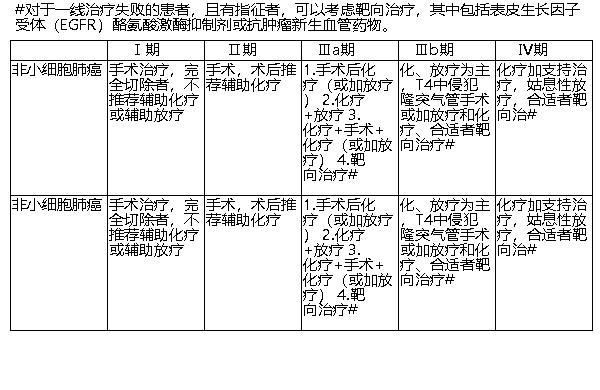
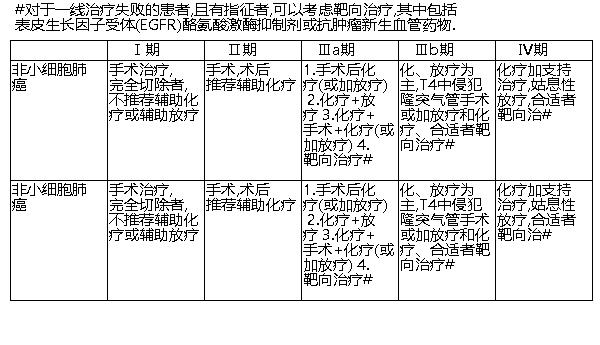
提交告辞

Changed region(s): [[0.0, 0.0, 0.99, 0.8696]]

diff --git a/Backendadmin/src/main/java/cn/knowimage/controller/PathwayInfoController.java b/Backendadmin/src/main/java/cn/knowimage/controller/PathwayInfoController.java
@@ -45,7 +45,8 @@ public class PathwayInfoController {
     public String insertPathwayInfo(String pathwayPojo) {
         System.out.println("|-----------开始进行添加或更新操作---------");
         //测试数据     避免前端多次测试
-        //pathwayPojo="{\"selectId\":\"012011078901\",\"publisher\":\"01\",\"publishYear\":\"2011\",\"fileNumber\":\"789\",\"versionNumber\":\"01\",\"pathway_name\":\"彭雷测试表格数据\",\"first_diagnose\":\"ICD–10：C34/D02.2\",\"suitable_subject_disc\":\"第一诊断为原发性支气管肺癌（ICD–10：C34/D02.2）\\n行肺局部切除/肺叶切除/全肺切除/开胸探查术(ICD-10-CM-3:32.29/32.3–32.5)。\",\"diagnosis\":\"根据《临床诊疗指南－呼吸病学分册》（中华医学会编著，人民卫生出版社），《2009年NCCN非小细胞肺癌临床实践指南（中国版）》（NCCN指南中国版专家组），《2009年NCCN小细胞肺癌临床实践指南》（NCCN小细胞肺癌专家组）。\\n1.临床表现：咳嗽、痰血、咯血、呼吸困难、Horner’s征、上腔静脉压迫综合征、远处转移引起的症状以及肺外非特异性表现（副癌综合征）等。\\n2.辅助检查：（1）胸部影像学检查；（2）病理学检查：痰脱落细胞学检查、纤维支气管镜活检、肺穿刺活检等确诊。\\n3.评价肿瘤转移情况的相关检查：腹部CT或超声、肾上腺CT、头颅MRI或增强CT、ECT全身骨扫描、PET–CT等。\\n4.根据上述检查结果进行临床分期。\",\"treatment_choice_ref\":\"《临床诊疗指南－呼吸病学分册》（中华医学会编著，人民卫生出版社），《2009年NCCN非小细胞肺癌临床实践指南（中国版）》（NCCN指南中国版专家组），《2009年NCCN小细胞肺癌临床实践指南》（NCCN小细胞肺癌专家组）。\",\"treatment_choice_scenario\":\"[{\\\"treatmentChoiceId\\\":[{\\\"value\\\":\\\"非小细胞肺癌治疗原则 @GRID@_1\\\"},{\\\"value\\\":\\\"晚期非小细胞肺癌治疗原则。 推荐以化疗为主，放疗和手术治疗为辅的综合治疗以延长患者生存期。化疗有效者可化疗4–6个周期。治疗后进展的患者可改二线治疗\\\"},{\\\"value\\\":\\\"小细胞肺癌治疗原则。 临床分期为Ⅰ期的小细胞肺癌，推荐肺叶切除+纵隔淋巴结清扫术，术后仍为pN0，推荐4–6周期的EP方案化疗；如为pN+，推荐全身化疗同时加纵隔野的放射治疗。不适于手术的I期小细胞肺癌，推荐同期化放疗的治疗。 Ⅱ和Ⅲ期小细胞肺癌，如果PS≤2，推荐同期化放疗的治疗；如果由于合并症而致PS＞2，首选化疗，必要时加上放射治疗。 Ⅳ期小细胞肺癌，首选治疗模式为全身化疗，EP方案为标准治疗方案；伊立替康+顺铂方案也是可选择的方案\\\"}]}]\",\"treatment_days\":\"[{\\\"tag_name\\\":\\\"\\\",\\\"text\\\":\\\"\\\",\\\"time_unit\\\":\\\"周\\\",\\\"min\\\":1.1428571428571428,\\\"max\\\":2}]\",\"treatment_entry_standard\":\"[{\\\"value\\\":\\\"第一诊断必须符合ICD–10：C34/D02.2原发性支气管肺癌疾病编码\\\"},{\\\"value\\\":\\\"有手术治疗指征需外科治疗者，转入外科治疗路径\\\"},{\\\"value\\\":\\\"如患者一般情况较差，KPS评分＜60（或ZPS评分＞2），不进入该临床路径\\\"},{\\\"value\\\":\\\"有明显影响原发性支气管肺癌常规治疗的情况，不进入该临床路径\\\"},{\\\"value\\\":\\\"当患者同时具有其他疾病诊断，但在住院期间不需要特殊处理也不影响第一诊断的临床路径流程实施时，可以进入路径\\\"}]\",\"prep_treatment_common\":\"化疗\",\"prep_treatmentCommon\":\"[{\\\"text\\\":\\\"\\\",\\\"time_unit\\\":\\\"\\\",\\\"min\\\":\\\"0\\\",\\\"max\\\":\\\"0\\\",\\\"obligatory_exam\\\":[{\\\"value\\\":\\\"血常规、尿常规、大便常规\\\"},{\\\"value\\\":\\\"凝血功能、血型、肝肾功能、电解质、感染性疾病筛查（乙肝、丙肝、艾滋病、梅毒等）、肿瘤标志物检查\\\"},{\\\"value\\\":\\\"肺功能、动脉血气分析、心电图、超声心动图\\\"},{\\\"value\\\":\\\"影像学检查：胸片正侧位、胸部CT（平扫＋增强扫描）、腹部超声或CT、ECT全身骨扫描、头颅MRI或CT\\\"}],\\\"optional_exam\\\":[{\\\"value\\\":\\\"纤维支气管镜检查及相应的镜下治疗\\\"},{\\\"value\\\":\\\"全身PET–CT\\\"}],\\\"notification\\\":[{\\\"value\\\":\\\"\\\"}],\\\"item_field_name1\\\":\\\"\\\"}]\",\"radio\":\"0\",\"prep_treatmentAntibio_usage\":\"[{\\\"value\\\":\\\"\\\"}]\",\"prep_treatmentAnaesthetic_usage\":\"[{\\\"value\\\":\\\"\\\"}]\",\"prep_treatmentOtherdrugs_usage\":\"[{\\\"value\\\":\\\"\\\"}]\",\"prep_treatment_extension\":\"[{\\\"content_item\\\":[{\\\"value\\\":\\\"\\\"}],\\\"content\\\":\\\"\\\"}]\",\"treatment_days_duration\":\"\",\"duration_treatment_min\":\"0\",\"duration_treatment_max\":\"0\",\"duration_treatment_text\":\"\",\"sceneList\":\"[{\\\"treatmentPlanRef\\\":\\\"\\\",\\\"caseChildnum\\\":[{\\\"treatmentPlanContent\\\":\\\"化疗方案\\\",\\\"planContentItem\\\":[{\\\"value\\\":\\\"非小细胞肺癌。 1）GP方案： 吉西他滨1000–1250mg/m2静脉滴注第１、８天，顺铂75mg/m2或卡铂AUC=5静脉滴注第1天，21日为一周期。 2）DP方案： 多西他赛75mg/m²静脉滴注第1天，顺铂75mg/m²或卡铂AUC=5静脉滴注第1天，21日为一周期。 3）NP方案： 长春瑞滨25mg/m²静推10分钟第1、8天，顺铂       80mg/m²静滴第1天，21日为一周期。 4）TP方案： 紫杉醇175mg/m²静滴3小时第1天，顺铂75mg/m²或卡铂AUC=5静滴第1天，21日为一周期。 5）PP方案（非鳞癌）： 培美曲塞500mg/m²静滴第1天，顺铂75mg/m²或卡铂  AUC=5静滴第1天，21日为一周期。 非小细胞肺癌二线化疗可选药物包括多西他赛与培美曲塞：多西他赛75mg/m²静滴第1天，21日为一周期；或培美曲塞500mg/m²静滴第1天，21日为一周期\\\"},{\\\"value\\\":\\\"小细胞肺癌 1）EP方案： 顺铂80mg/m²静滴第1天，依托泊苷100mg/m²静滴第1-3天，21天为一周期。 2）IP方案： 伊立替康60mg/m²静滴第1、8、15天，顺铂60mg/m²静滴第1天，28日为一周期。 3）CAV方案： 环磷酰胺1000mg/m²静推或静滴第1天，多柔比星40–50mg/m²（或表柔比星60mg/m²）静推第1天，长春新碱1mg/m²静推第1天，21–28日为一周期。 小细胞肺癌的二线治疗：一线化疗后3个月内进展，二线化疗可选药物有托泊替康、异环磷酰胺、紫杉醇、多西他赛、吉西他滨；一线化疗后3个月后进展，二线化疗首选托泊替康单药或联合用药；6个月后进展，选用初始治疗有效的方案\\\"}]},{\\\"treatmentPlanContent\\\":\\\"靶向治疗\\\",\\\"planContentItem\\\":[{\\\"value\\\":\\\"非小细胞肺癌二线或三线治疗可选用吉非替尼或厄洛替尼。根据现有证据，推荐在有EGFR基因突变的晚期非小细胞肺癌中一线使用吉非替尼或厄洛替尼。目前用于非小细胞肺癌的靶向治疗还包括抗血管生成的贝伐单抗、西妥昔单抗等\\\"}]},{\\\"treatmentPlanContent\\\":\\\"抗肿瘤药物毒副反应的防治\\\",\\\"planContentItem\\\":[{\\\"value\\\":\\\"包括骨髓抑制、消化道反应、脏器损害、过敏反应、肾毒性及局部皮肤刺激的预防和处理\\\"}]},{\\\"treatmentPlanContent\\\":\\\"并发症及转移灶的综合治疗\\\",\\\"planContentItem\\\":[{\\\"value\\\":\\\"\\\"}]}],\\\"obligatoryExam\\\":[{\\\"value\\\":\\\"\\\"}],\\\"optionalExam\\\":[{\\\"value\\\":\\\"\\\"}],\\\"notification\\\":[{\\\"value\\\":\\\"\\\"}],\\\"item_field_name2\\\":\\\"\\\"}]\",\"drug_usageAntibio_usage\":\"[{\\\"value\\\":\\\"\\\"}]\",\"drug_usageAnaesthetic_usage\":\"[{\\\"value\\\":\\\"\\\"}]\",\"drug_usageOtherdrugs_usage\":\"[{\\\"value\\\":\\\"\\\"}]\",\"afterDuration\":\"\",\"afterDuration_treatment_min\":\"0\",\"afterDuration_treatment_max\":\"0\",\"afterDuration_treatment_text\":\"\",\"after_medicalScenario\":\"[{\\\"obligatory_exam\\\":[{\\\"value\\\":\\\"\\\"}],\\\"optional_exam\\\":[{\\\"value\\\":\\\"\\\"}],\\\"recovery_plan\\\":[{\\\"value\\\":\\\"\\\"}]}]\",\"after_treatmentAntibio_usage\":\"[{\\\"value\\\":\\\"\\\"}]\",\"after_treatmentAnaesthetic_usage\":\"[{\\\"value\\\":\\\"\\\"}]\",\"after_treatmentOtherdrugs_usage\":\"[{\\\"value\\\":\\\"\\\"}]\",\"discharge_criteria\":\"[{\\\"value\\\":\\\"生命体征平稳\\\"},{\\\"value\\\":\\\"没有需要继续住院处理的并发症\\\"}]\",\"other_notice\":\"[{\\\"value\\\":\\\"有影响肺癌治疗的合并症，需要进行相关的诊断和治疗\\\"},{\\\"value\\\":\\\"治疗过程中出现并发症和/或抗肿瘤药物严重毒副反应\\\"}]\",\"submitter\":\"李俊峰\",\"indefinite_field\":\"[{\\\"field_pos\\\":3,\\\"field_name\\\":\\\"\\\",\\\"field_content\\\":[{\\\"value\\\":\\\"\\\"}]}]\",\"submitterid\":\"51\",\"commit\":\"0\",\"table_info\":\"[{\\\"table_name\\\":\\\"@GRID@_1\\\",\\\"row_count\\\":3,\\\"table_pos\\\":0,\\\"column_count\\\":6,\\\"top_title\\\":\\\"\\\",\\\"below_description\\\":\\\"#对于一线治疗失败的患者，且有指征者，可以考虑靶向治疗，其中包括表皮生长因子受体（EGFR）酪氨酸激酶抑制剂或抗肿瘤新生血管药物。\\\",\\\"content\\\":[[{\\\"value\\\":\\\"\\\"},{\\\"value\\\":\\\"Ⅰ期\\\"},{\\\"value\\\":\\\"Ⅱ期\\\"},{\\\"value\\\":\\\"Ⅲa期\\\"},{\\\"value\\\":\\\"Ⅲb期\\\"},{\\\"value\\\":\\\"Ⅳ期\\\"}],[{\\\"value\\\":\\\"非小细胞肺癌\\\"},{\\\"value\\\":\\\"手术治疗，完全切除者，不推荐辅助化疗或辅助放疗\\\"},{\\\"value\\\":\\\"手术，术后推荐辅助化疗\\\"},{\\\"value\\\":\\\"1.手术后化疗（或加放疗） 2.化疗+放疗 3.化疗+手术+化疗（或加放疗） 4.靶向治疗#\\\"},{\\\"value\\\":\\\"化、放疗为主，T4中侵犯隆突气管手术或加放疗和化疗、合适者靶向治疗#\\\"},{\\\"value\\\":\\\"化疗加支持治疗，姑息性放疗，合适者靶向治#\\\"}],[{\\\"value\\\":\\\"非小细胞肺癌\\\"},{\\\"value\\\":\\\"手术治疗，完全切除者，不推荐辅助化疗或辅助放疗\\\"},{\\\"value\\\":\\\"手术，术后推荐辅助化疗\\\"},{\\\"value\\\":\\\"1.手术后化疗（或加放疗） 2.化疗+放疗 3.化疗+手术+化疗（或加放疗） 4.靶向治疗#\\\"},{\\\"value\\\":\\\"化、放疗为主，T4中侵犯隆突气管手术或加放疗和化疗、合适者靶向治疗#\\\"},{\\\"value\\\":\\\"化疗加支持治疗，姑息性放疗，合适者靶向治#\\\"}]]}]\",\"fileStatic\":0}";
+        pathwayPojo="{\"selectId\":\"012011078901\",\"publisher\":\"01\",\"publishYear\":\"2011\",\"fileNumber\":\"789\",\"versionNumber\":\"01\",\"pathway_name\":\"彭雷测试表格数据\",\"first_diagnose\":\"ICD–10：C34/D02.2\",\"suitable_subject_disc\":\"第一诊断为原发性支气管肺癌（ICD–10：C34/D02.2）\\n行肺局部切除/肺叶切除/全肺切除/开胸探查术(ICD-10-CM-3:32.29/32.3–32.5)。\",\"diagnosis\":\"根据《临床诊疗指南－呼吸病学分册》（中华医学会编著，人民卫生出版社），《2009年NCCN非小细胞肺癌临床实践指南（中国版）》（NCCN指南中国版专家组），《2009年NCCN小细胞肺癌临床实践指南》（NCCN小细胞肺癌专家组）。\\n1.临床表现：咳嗽、痰血、咯血、呼吸困难、Horner’s征、上腔静脉压迫综合征、远处转移引起的症状以及肺外非特异性表现（副癌综合征）等。\\n2.辅助检查：（1）胸部影像学检查；（2）病理学检查：痰脱落细胞学检查、纤维支气管镜活检、肺穿刺活检等确诊。\\n3.评价肿瘤转移情况的相关检查：腹部CT或超声、肾上腺CT、头颅MRI或增强CT、ECT全身骨扫描、PET–CT等。\\n4.根据上述检查结果进行临床分期。\",\"treatment_choice_ref\":\"《临床诊疗指南－呼吸病学分册》（中华医学会编著，人民卫生出版社），《2009年NCCN非小细胞肺癌临床实践指南（中国版）》（NCCN指南中国版专家组），《2009年NCCN小细胞肺癌临床实践指南》（NCCN小细胞肺癌专家组）。\",\"treatment_choice_scenario\":\"[{\\\"treatmentChoiceId\\\":[{\\\"value\\\":\\\"非小细胞肺癌治疗原则 @GRID@_1\\\"},{\\\"value\\\":\\\"晚期非小细胞肺癌治疗原则。 推荐以化疗为主，放疗和手术治疗为辅的综合治疗以延长患者生存期。化疗有效者可化疗4–6个周期。治疗后进展的患者可改二线治疗\\\"},{\\\"value\\\":\\\"小细胞肺癌治疗原则。 临床分期为Ⅰ期的小细胞肺癌，推荐肺叶切除+纵隔淋巴结清扫术，术后仍为pN0，推荐4–6周期的EP方案化疗；如为pN+，推荐全身化疗同时加纵隔野的放射治疗。不适于手术的I期小细胞肺癌，推荐同期化放疗的治疗。 Ⅱ和Ⅲ期小细胞肺癌，如果PS≤2，推荐同期化放疗的治疗；如果由于合并症而致PS＞2，首选化疗，必要时加上放射治疗。 Ⅳ期小细胞肺癌，首选治疗模式为全身化疗，EP方案为标准治疗方案；伊立替康+顺铂方案也是可选择的方案\\\"}]}]\",\"treatment_days\":\"[{\\\"tag_name\\\":\\\"\\\",\\\"text\\\":\\\"\\\",\\\"time_unit\\\":\\\"周\\\",\\\"min\\\":1.1428571428571428,\\\"max\\\":2}]\",\"treatment_entry_standard\":\"[{\\\"value\\\":\\\"第一诊断必须符合ICD–10：C34/D02.2原发性支气管肺癌疾病编码\\\"},{\\\"value\\\":\\\"有手术治疗指征需外科治疗者，转入外科治疗路径\\\"},{\\\"value\\\":\\\"如患者一般情况较差，KPS评分＜60（或ZPS评分＞2），不进入该临床路径\\\"},{\\\"value\\\":\\\"有明显影响原发性支气管肺癌常规治疗的情况，不进入该临床路径\\\"},{\\\"value\\\":\\\"当患者同时具有其他疾病诊断，但在住院期间不需要特殊处理也不影响第一诊断的临床路径流程实施时，可以进入路径\\\"}]\",\"prep_treatment_common\":\"化疗\",\"prep_treatmentCommon\":\"[{\\\"text\\\":\\\"\\\",\\\"time_unit\\\":\\\"\\\",\\\"min\\\":\\\"0\\\",\\\"max\\\":\\\"0\\\",\\\"obligatory_exam\\\":[{\\\"value\\\":\\\"血常规、尿常规、大便常规\\\"},{\\\"value\\\":\\\"凝血功能、血型、肝肾功能、电解质、感染性疾病筛查（乙肝、丙肝、艾滋病、梅毒等）、肿瘤标志物检查\\\"},{\\\"value\\\":\\\"肺功能、动脉血气分析、心电图、超声心动图\\\"},{\\\"value\\\":\\\"影像学检查：胸片正侧位、胸部CT（平扫＋增强扫描）、腹部超声或CT、ECT全身骨扫描、头颅MRI或CT\\\"}],\\\"optional_exam\\\":[{\\\"value\\\":\\\"纤维支气管镜检查及相应的镜下治疗\\\"},{\\\"value\\\":\\\"全身PET–CT\\\"}],\\\"notification\\\":[{\\\"value\\\":\\\"\\\"}],\\\"item_field_name1\\\":\\\"\\\"}]\",\"radio\":\"0\",\"prep_treatmentAntibio_usage\":\"[{\\\"value\\\":\\\"\\\"}]\",\"prep_treatmentAnaesthetic_usage\":\"[{\\\"value\\\":\\\"\\\"}]\",\"prep_treatmentOtherdrugs_usage\":\"[{\\\"value\\\":\\\"\\\"}]\",\"prep_treatment_extension\":\"[{\\\"content_item\\\":[{\\\"value\\\":\\\"\\\"}],\\\"content\\\":\\\"\\\"}]\",\"treatment_days_duration\":\"\",\"duration_treatment_min\":\"0\",\"duration_treatment_max\":\"0\",\"duration_treatment_text\":\"\",\"sceneList\":\"[{\\\"treatmentPlanRef\\\":\\\"\\\",\\\"caseChildnum\\\":[{\\\"treatmentPlanContent\\\":\\\"化疗方案\\\",\\\"planContentItem\\\":[{\\\"value\\\":\\\"非小细胞肺癌。 1）GP方案： 吉西他滨1000–1250mg/m2静脉滴注第１、８天，顺铂75mg/m2或卡铂AUC=5静脉滴注第1天，21日为一周期。 2）DP方案： 多西他赛75mg/m²静脉滴注第1天，顺铂75mg/m²或卡铂AUC=5静脉滴注第1天，21日为一周期。 3）NP方案： 长春瑞滨25mg/m²静推10分钟第1、8天，顺铂       80mg/m²静滴第1天，21日为一周期。 4）TP方案： 紫杉醇175mg/m²静滴3小时第1天，顺铂75mg/m²或卡铂AUC=5静滴第1天，21日为一周期。 5）PP方案（非鳞癌）： 培美曲塞500mg/m²静滴第1天，顺铂75mg/m²或卡铂  AUC=5静滴第1天，21日为一周期。 非小细胞肺癌二线化疗可选药物包括多西他赛与培美曲塞：多西他赛75mg/m²静滴第1天，21日为一周期；或培美曲塞500mg/m²静滴第1天，21日为一周期\\\"},{\\\"value\\\":\\\"小细胞肺癌 1）EP方案： 顺铂80mg/m²静滴第1天，依托泊苷100mg/m²静滴第1-3天，21天为一周期。 2）IP方案： 伊立替康60mg/m²静滴第1、8、15天，顺铂60mg/m²静滴第1天，28日为一周期。 3）CAV方案： 环磷酰胺1000mg/m²静推或静滴第1天，多柔比星40–50mg/m²（或表柔比星60mg/m²）静推第1天，长春新碱1mg/m²静推第1天，21–28日为一周期。 小细胞肺癌的二线治疗：一线化疗后3个月内进展，二线化疗可选药物有托泊替康、异环磷酰胺、紫杉醇、多西他赛、吉西他滨；一线化疗后3个月后进展，二线化疗首选托泊替康单药或联合用药；6个月后进展，选用初始治疗有效的方案\\\"}]},{\\\"treatmentPlanContent\\\":\\\"靶向治疗\\\",\\\"planContentItem\\\":[{\\\"value\\\":\\\"非小细胞肺癌二线或三线治疗可选用吉非替尼或厄洛替尼。根据现有证据，推荐在有EGFR基因突变的晚期非小细胞肺癌中一线使用吉非替尼或厄洛替尼。目前用于非小细胞肺癌的靶向治疗还包括抗血管生成的贝伐单抗、西妥昔单抗等\\\"}]},{\\\"treatmentPlanContent\\\":\\\"抗肿瘤药物毒副反应的防治\\\",\\\"planContentItem\\\":[{\\\"value\\\":\\\"包括骨髓抑制、消化道反应、脏器损害、过敏反应、肾毒性及局部皮肤刺激的预防和处理\\\"}]},{\\\"treatmentPlanContent\\\":\\\"并发症及转移灶的综合治疗\\\",\\\"planContentItem\\\":[{\\\"value\\\":\\\"\\\"}]}],\\\"obligatoryExam\\\":[{\\\"value\\\":\\\"\\\"}],\\\"optionalExam\\\":[{\\\"value\\\":\\\"\\\"}],\\\"notification\\\":[{\\\"value\\\":\\\"\\\"}],\\\"item_field_name2\\\":\\\"\\\"}]\",\"drug_usageAntibio_usage\":\"[{\\\"value\\\":\\\"\\\"}]\",\"drug_usageAnaesthetic_usage\":\"[{\\\"value\\\":\\\"\\\"}]\",\"drug_usageOtherdrugs_usage\":\"[{\\\"value\\\":\\\"\\\"}]\",\"afterDuration\":\"\",\"afterDuration_treatment_min\":\"0\",\"afterDuration_treatment_max\":\"0\",\"afterDuration_treatment_text\":\"\",\"after_medicalScenario\":\"[{\\\"obligatory_exam\\\":[{\\\"value\\\":\\\"\\\"}],\\\"optional_exam\\\":[{\\\"value\\\":\\\"\\\"}],\\\"recovery_plan\\\":[{\\\"value\\\":\\\"\\\"}]}]\",\"after_treatmentAntibio_usage\":\"[{\\\"value\\\":\\\"\\\"}]\",\"after_treatmentAnaesthetic_usage\":\"[{\\\"value\\\":\\\"\\\"}]\",\"after_treatmentOtherdrugs_usage\":\"[{\\\"value\\\":\\\"\\\"}]\",\"discharge_criteria\":\"[{\\\"value\\\":\\\"生命体征平稳\\\"},{\\\"value\\\":\\\"没有需要继续住院处理的并发症\\\"}]\",\"other_notice\":\"[{\\\"value\\\":\\\"有影响肺癌治疗的合并症，需要进行相关的诊断和治疗\\\"},{\\\"value\\\":\\\"治疗过程中出现并发症和/或抗肿瘤药物严重毒副反应\\\"}]\",\"submitter\":\"李俊峰\",\"indefinite_field\":\"[{\\\"field_pos\\\":3,\\\"field_name\\\":\\\"\\\",\\\"field_content\\\":[{\\\"value\\\":\\\"\\\"}]}]\",\"submitterid\":\"51\",\"commit\":\"0\",\"table_info\":\"[{\\\"table_name\\\":\\\"@GRID@_1\\\",\\\"row_count\\\":3,\\\"table_pos\\\":0,\\\"column_count\\\":6,\\\"top_title\\\":\\\"\\\",\\\"below_description\\\":\\\"#对于一线治疗失败的患者，且有指征者，可以考虑靶向治疗，其中包括表皮生长因子受体（EGFR）酪氨酸激酶抑制剂或抗肿瘤新生血管药物。\\\",\\\"content\\\":[[{\\\"value\\\":\\\"\\\"},{\\\"value\\\":\\\"Ⅰ期\\\"},{\\\"value\\\":\\\"Ⅱ期\\\"},{\\\"value\\\":\\\"Ⅲa期\\\"},{\\\"value\\\":\\\"Ⅲb期\\\"},{\\\"value\\\":\\\"Ⅳ期\\\"}],[{\\\"value\\\":\\\"非小细胞肺癌\\\"},{\\\"value\\\":\\\"手术治疗，完全切除者，不推荐辅助化疗或辅助放疗\\\"},{\\\"value\\\":\\\"手术，术后推荐辅助化疗\\\"},{\\\"value\\\":\\\"1.手术后化疗（或加放疗） 2.化疗+放疗 3.化疗+手术+化疗（或加放疗） 4.靶向治疗#\\\"},{\\\"value\\\":\\\"化、放疗为主，T4中侵犯隆突气管手术或加放疗和化疗、合适者靶向治疗#\\\"},{\\\"value\\\":\\\"化疗加支持治疗，姑息性放疗，合适者靶向治#\\\"}],[{\\\"value\\\":\\\"非小细胞肺癌\\\"},{\\\"value\\\":\\\"手术治疗，完全切除者，不推荐辅助化疗或辅助放疗\\\"},{\\\"value\\\":\\\"手术，术后推荐辅助化疗\\\"},{\\\"value\\\":\\\"1.手术后化疗（或加放疗） 2.化疗+放疗 3.化疗+手术+化疗（或加放疗） 4.靶向治疗#\\\"},{\\\"value\\\":\\\"化、放疗为主，T4中侵犯隆突气管手术或加放疗和化疗、合适者靶向治疗#\\\"},{\\\"value\\\":\\\"化疗加支持治疗，姑息性放疗，合适者靶向治#\\\"}]]}]\",\"fileStatic\":0}";
+        //pathwayPojo="{\"selectId\":\"012012060900\",\"publisher\":\"01\",\"publishYear\":\"2012\",\"fileNumber\":\"609\",\"versionNumber\":\"00\",\"pathway_name\":\"胃癌姑息化疗\",\"first_diagnose\":\"ICD-10：C16伴Z51.1\",\"suitable_subject_disc\":\"\\n1.第一诊断为胃癌（ICD-10：C16伴Z51.1）\\n2.姑息化疗：有复发转移胃癌患者，或因其他原因无法根治手术的患者。\",\"diagnosis\":\"根据卫生部《胃癌诊疗规范（2011年）》、NCCN《胃癌临床实践指南中国版（2011年）》等。\\n1.临床表现：上腹不适、隐痛、贫血等。\\n2.大便隐血试验多呈持续阳性。\\n3.胃镜检查明确肿瘤情况，取活组织检查作出病理学诊断。\\n4.影像学检查提示并了解有无淋巴结及脏器转移，肿瘤局部脏器浸润；气钡双重造影检查了解肿瘤大小、形态和病变范围。\\n5.根据上述检查结果进行临床分期。\",\"treatment_choice_ref\":\"\",\"treatment_choice_scenario\":\"[{\\\"treatmentChoiceId\\\":[{\\\"value\\\":\\\"\\\"}]}]\",\"treatment_days\":\"[{\\\"tag_name\\\":\\\"\\\",\\\"text\\\":\\\"\\\",\\\"time_unit\\\":\\\"小时\\\",\\\"min\\\":120,\\\"max\\\":216}]\",\"treatment_entry_standard\":\"[{\\\"value\\\":\\\"第一诊断必须符合ICD-10：C16伴Z51.1胃癌疾病编码\\\"},{\\\"value\\\":\\\"有复发转移或准备入院检查确认复发转移，或因其他原因无法根治手术\\\"},{\\\"value\\\":\\\"无需特殊处理的合并症，如消化道大出血、幽门梗阻、胸腹水、肠梗阻等\\\"},{\\\"value\\\":\\\"当患者合并其他疾病，但住院期间不需要特殊处理也不影响第一诊断的临床路径流程实施时，可以进入路径\\\"}]\",\"prep_treatment_common\":\"化疗\",\"prep_treatmentCommon\":\"[{\\\"text\\\":\\\"\\\",\\\"time_unit\\\":\\\"小时\\\",\\\"min\\\":\\\"24\\\",\\\"max\\\":\\\"72\\\",\\\"obligatory_exam\\\":[{\\\"value\\\":\\\"血常规、尿常规、大便常规+隐血\\\"},{\\\"value\\\":\\\"肝肾功能、电解质、血糖、凝血功能、CEA\\\"},{\\\"value\\\":\\\"心电图\\\"}],\\\"optional_exam\\\":[{\\\"value\\\":\\\"AFP、CA199、CA125、CA724、CA242、Her2免疫组化检测\\\"},{\\\"value\\\":\\\"上消化道造影，特别是气钡双重造影（对疑有幽门梗阻的患者，建议使用水溶性造影剂）\\\"},{\\\"value\\\":\\\"必要时可以在基线和评效时行超声胃镜检查\\\"},{\\\"value\\\":\\\"骨扫描：对怀疑有骨转移的胃癌患者，应行骨扫描筛查\\\"},{\\\"value\\\":\\\"合并其他疾病的相关检查\\\"}],\\\"notification\\\":[{\\\"value\\\":\\\"胃镜、胸片（正侧位）或胸部CT、腹部增强CT、盆腔超声、颈部及锁骨上淋巴结超声\\\"},{\\\"value\\\":\\\"病理学活组织检查与诊断（必要时）\\\"}],\\\"item_field_name1\\\":\\\"基线及评效检查项目\\\"}]\",\"radio\":\"1\",\"prep_treatmentAntibio_usage\":\"[{\\\"value\\\":\\\"\\\"}]\",\"prep_treatmentAnaesthetic_usage\":\"[{\\\"value\\\":\\\"\\\"}]\",\"prep_treatmentOtherdrugs_usage\":\"[{\\\"value\\\":\\\"\\\"}]\",\"prep_treatment_extension\":\"[{\\\"content\\\":\\\"\\\",\\\"content_item\\\":[{\\\"value\\\":\\\"体格检查、体能状况评分\\\"},{\\\"value\\\":\\\"排除化疗禁忌\\\"},{\\\"value\\\":\\\"患者、监护人或被授权人签署相关同意书\\\"}]}]\",\"treatment_days_duration\":\"小时\",\"duration_treatment_min\":\"0\",\"duration_treatment_max\":\"0\",\"duration_treatment_text\":\"\",\"sceneList\":\"[{\\\"treatmentPlanRef\\\":\\\"依据卫生部《胃癌诊疗规范（2011年）》等\\\",\\\"caseChildnum\\\":[{\\\"treatmentPlanContent\\\":\\\"推荐使用三药或两药联合方案，对体力状态差、高龄患者，可以考虑采用口服氟尿嘧啶类药物或紫杉类药物的单药化疗方案。\\\",\\\"planContentItem\\\":[{\\\"value\\\":\\\"\\\"}]},{\\\"treatmentPlanContent\\\":\\\"两药方案包括：5-FU+顺铂、卡培他滨+顺铂、替吉奥+顺铂、卡培他滨+奥沙利铂（XELOX）、FOLFOX、替吉奥+奥沙利铂、卡培他滨+紫杉醇、FOLFIRI。\\\",\\\"planContentItem\\\":[{\\\"value\\\":\\\"\\\"}]},{\\\"treatmentPlanContent\\\":\\\"三药方案包括：ECF及其衍生方案（EOX、ECX、EOF），DCF及其改良方案等。\\\",\\\"planContentItem\\\":[{\\\"value\\\":\\\"\\\"}]}],\\\"obligatoryExam\\\":[{\\\"value\\\":\\\"\\\"}],\\\"optionalExam\\\":[{\\\"value\\\":\\\"\\\"}],\\\"notification\\\":[{\\\"value\\\":\\\"@GRID@_1\\\"}],\\\"item_field_name2\\\":\\\"化疗药物\\\"}]\",\"drug_usageAntibio_usage\":\"[{\\\"value\\\":\\\"\\\"}]\",\"drug_usageAnaesthetic_usage\":\"[{\\\"value\\\":\\\"\\\"}]\",\"drug_usageOtherdrugs_usage\":\"[{\\\"value\\\":\\\"\\\"}]\",\"afterDuration\":\"小时\",\"afterDuration_treatment_min\":\"0\",\"afterDuration_treatment_max\":\"0\",\"afterDuration_treatment_text\":\"\",\"after_medicalScenario\":\"[{\\\"obligatory_exam\\\":[{\\\"value\\\":\\\"血常规：建议每周复查1-2次。根据具体化疗方案及血像变化，复查时间间隔可酌情增减\\\"}],\\\"optional_exam\\\":[{\\\"value\\\":\\\"肝肾功能：每周期复查一次。根据具体化疗方案及结果，复查时间间隔可酌情增减\\\"}],\\\"recovery_plan\\\":[{\\\"value\\\":\\\"化疗期间脏器功能损伤的相应防治：止吐、保肝、水化、抑酸剂、止泻药、预防过敏、升白细胞及血小板、贫血治疗\\\"}]}]\",\"after_treatmentAntibio_usage\":\"[{\\\"value\\\":\\\"\\\"}]\",\"after_treatmentAnaesthetic_usage\":\"[{\\\"value\\\":\\\"\\\"}]\",\"after_treatmentOtherdrugs_usage\":\"[{\\\"value\\\":\\\"静脉或肠内营养\\\"}]\",\"discharge_criteria\":\"[{\\\"value\\\":\\\"病人一般情况良好，生命体征平稳正常\\\"},{\\\"value\\\":\\\"没有需要住院处理的并发症\\\"}]\",\"other_notice\":\"[{\\\"value\\\":\\\"治疗前、中、后有感染、严重贫血、出血、梗阻及其他合并症者，需进行相关的诊断和治疗，可能延长住院时间并致费用增加。\\\"},{\\\"value\\\":\\\"化疗后出现骨髓抑制，需要对症处理，导致治疗时间延长、费用增加\\\"},{\\\"value\\\":\\\"药物不良反应需要特殊处理，如过敏反应、神经毒性、心脏毒性等\\\"},{\\\"value\\\":\\\"对HER-2表达呈阳性（免疫组化染色呈+++，或免疫组化染色呈++且FISH检测呈阳性）的晚期胃癌患者，可考虑在化疗的基础上，联合使用分子靶向治疗药物曲妥珠单抗。导致费用增加\\\"},{\\\"value\\\":\\\"高龄患者根据个体化情况具体实施\\\"},{\\\"value\\\":\\\"医师认可的变异原因分析，如药物减量使用\\\"},{\\\"value\\\":\\\"其他患者方面的原因等\\\"}]\",\"submitter\":\"李俊峰\",\"indefinite_field\":\"[{\\\"field_pos\\\":3,\\\"field_name\\\":\\\"\\\",\\\"field_content\\\":[{\\\"value\\\":\\\"\\\"}]}]\",\"submitterid\":\"51\",\"commit\":\"0\",\"table_info\":\"[{\\\"table_name\\\":\\\"@GRID@_1\\\",\\\"row_count\\\":11,\\\"column_count\\\":3,\\\"top_title\\\":\\\"\\\",\\\"below_description\\\":\\\"\\\",\\\"table_pos\\\":\\\"0\\\",\\\"content\\\":[[{\\\"value\\\":\\\"药物\\\"},{\\\"value\\\":\\\"给药剂量mg/(m2) 及给药途径\\\"},{\\\"value\\\":\\\"给药时间(天) 及周期间隔\\\"}],[{\\\"value\\\":\\\"替吉奥\\\"},{\\\"value\\\":\\\"40   Bid   po\\\"},{\\\"value\\\":\\\"d1-14   q3w\\\"}],[{\\\"value\\\":\\\"卡培他滨\\\"},{\\\"value\\\":\\\"1000 Bid   po\\\"},{\\\"value\\\":\\\"d1-14   q3w\\\"}],[{\\\"value\\\":\\\"5-FU\\\"},{\\\"value\\\":\\\"425-750 civ 24h 800-1200civ 22h\\\"},{\\\"value\\\":\\\"d1-5    q3w d1-2    q2w\\\"}],[{\\\"value\\\":\\\"顺铂\\\"},{\\\"value\\\":\\\"60-80　 iv drip\\\"},{\\\"value\\\":\\\"d1或分2-3d   q3w\\\"}],[{\\\"value\\\":\\\"奥沙利铂\\\"},{\\\"value\\\":\\\"130     iv drip 85      iv drip\\\"},{\\\"value\\\":\\\"d1      q3w d1      q2w\\\"}],[{\\\"value\\\":\\\"紫杉醇\\\"},{\\\"value\\\":\\\"150-175 iv drip\\\"},{\\\"value\\\":\\\"d1或分为d1,d8 q3w\\\"}],[{\\\"value\\\":\\\"多西紫杉醇\\\"},{\\\"value\\\":\\\"60-75   iv drip\\\"},{\\\"value\\\":\\\"d1      q3w\\\"}],[{\\\"value\\\":\\\"表阿霉素\\\"},{\\\"value\\\":\\\"50-60   iv \\\"},{\\\"value\\\":\\\"d1      q3w\\\"}],[{\\\"value\\\":\\\"醛氢叶酸\\\"},{\\\"value\\\":\\\"20-200  iv\\\"},{\\\"value\\\":\\\"d1-2    q2w\\\"}],[{\\\"value\\\":\\\"伊立替康\\\"},{\\\"value\\\":\\\"180mg  iv\\\"},{\\\"value\\\":\\\"d1      q2w\\\"}]]}]\",\"fileStatic\":0}";
         System.out.println("前端传入数据为:"+pathwayPojo);
         ReceivePathway receivePathway = JsonUtils.jsonToPojo(pathwayPojo, ReceivePathway.class);
         //创建pathwayInfo字段

diff --git a/Backendadmin/src/main/java/cn/knowimage/util/tableImageOutRow.java b/Backendadmin/src/main/java/cn/knowimage/util/tableImageOutRow.java
@@ -8,6 +8,8 @@ import java.awt.image.BufferedImage;
 import java.io.BufferedOutputStream;
 import java.io.FileOutputStream;
 import java.util.ArrayList;
+import java.util.regex.Matcher;
+import java.util.regex.Pattern;
 
 public class tableImageOutRow {
     /**
@@ -34,7 +36,6 @@ public class tableImageOutRow {
         int maxHeight=MaxStr.size();
         //  行高
         int  rowheight  =  15*maxHeight+15;
-        System.out.println("rowheight=="+rowheight);
         //  图片高度
         int  imageHeight  =  (totalrow-1)*rowheight+(15 * maxHeight);
         //  起始高度
@@ -99,7 +100,6 @@ public class tableImageOutRow {
                     }
                     //System.out.println("value="+value+"坐标为:"+"x="+(startWidth + colwidth * l+12)+"y="+(startHeight + rowheight * (n + 2) - rowheight+15+(i*15)));
                     else {
-                        System.out.println(value);
                         graphics.drawString(value, startWidth + colwidth * l+(colwidth-value.length()*15)/2, startHeight+n*rowheight+(i*15)-(10/2));
                     }
                 }
@@ -126,20 +126,38 @@ public class tableImageOutRow {
         }
     }
     public ArrayList<String> stringCut(String str , int colwidth ){
+        str = str.replaceAll("，",",");
+        str = str.replaceAll("（","(");
+        str = str.replaceAll("）",")");
+        str = str.replaceAll("。",".");
+        int maxL = 15;
+        int minL = 8;
         int num = str.length();
+        int sum = 0;
+        int maxWidth = (int) (colwidth*0.8);
+        int index = 0;
         ArrayList list = new ArrayList<>();
-        if (str.length()*15<colwidth){
-            list.add(str);
-        }else {
-            for (int i = 0; i < num; i = i + colwidth/15) {
-                String s = str.substring(i, (i + colwidth/15));
+        char ch[] = str.toCharArray();
+        for (int i = 0 ; i < num; i++) {
+
+            boolean zw = String.valueOf(ch[i]).matches("[\u4e00-\u9fa5]");
+            if (zw){
+                sum = sum + maxL;
+            }else{
+                sum = sum + minL;
+            }
+            if (sum>=maxWidth) {
+                String s = str.substring(index, i);
                 list.add(s);
-                if ((num - i - colwidth/15) < colwidth/15) {
-                    list.add(str.substring(i + colwidth/15, num));
-                    break;
-                }
+                sum = 0;
+                index=i;
+            }
+            if (i == num-1 && sum<maxWidth) {
+                list.add(str.substring(index, num));
+                break;
             }
         }
         return list;
     }
+
 }

diff --git a/Backendadmin/src/main/java/cn/knowimage/controller/FileController.java b/Backendadmin/src/main/java/cn/knowimage/controller/FileController.java
@@ -1,53 +1,22 @@
 package cn.knowimage.controller;
 
-import net.sf.json.JSONObject;
+import cn.knowimage.pojo.ImageInfo;
+import cn.knowimage.service.ImageInfoService;
+import org.springframework.beans.factory.annotation.Autowired;
 import org.springframework.web.bind.annotation.CrossOrigin;
 import org.springframework.web.bind.annotation.RequestMapping;
 import org.springframework.web.bind.annotation.RestController;
-import org.springframework.web.multipart.MultipartFile;
-import sun.misc.BASE64Decoder;
-import sun.misc.BASE64Encoder;
-
-import javax.imageio.ImageIO;
-import java.awt.image.BufferedImage;
-import java.io.ByteArrayInputStream;
-import java.io.File;
-import java.io.IOException;
 
 @RestController
 @CrossOrigin
 public class FileController {
+    @Autowired
+    ImageInfoService imageInfoService;
+    //上传图片接口
     @RequestMapping(value = "uploadFile")
-    public String uploadFile(String first_title,String image_prefix,String below_description,MultipartFile file[]){
-        System.out.println(first_title);
-        System.out.println(image_prefix);
-        System.out.println(below_description);
-        int size = file.length;
-        for (int i = 0 ; i<size;i++) {
-            System.out.println(file[i].getOriginalFilename());
-        }
-//        System.out.println("image_prefix="+image_prefix);
-//        System.out.println("first_title="+first_title);
-//        System.out.println("below_description="+below_description);
-//        System.out.println("开始上传图片");
-//        if (file.isEmpty()) {
-//            System.out.println("文件为空");
-//        }
-//        String fileName = file.getName();  // 文件名
-//        String filePath = "C:\\Users\\wh123\\Desktop\\HospitalProject\\ImageUpload\\"; // 上传后的路径
-//        File dest = new File(filePath + fileName);
-//        String result;
-//        if (!dest.getParentFile().exists()) {
-//            dest.getParentFile().mkdirs();
-//        }
-//        try {
-//            file.transferTo(dest);
-//            result = "上传成功";
-//            System.out.println(result);
-//        } catch (IOException e) {
-//            result = "上传失败";
-//            e.printStackTrace();
-//        }
+    public String uploadFile(ImageInfo imageInfo){
+        //调用imageInfoService的makeImageInfo方法
+        imageInfoService.makeImageInfo(imageInfo);
         return "result";
     }
 }

diff --git a/Backendadmin/src/main/java/cn/knowimage/JsonPojo/MakeJson/MakeImageInfo.java b/Backendadmin/src/main/java/cn/knowimage/JsonPojo/MakeJson/MakeImageInfo.java
@@ -1,0 +1,47 @@
+package cn.knowimage.JsonPojo.MakeJson;
+
+import cn.knowimage.pojo.ImageInfo;
+import cn.knowimage.util.ImageUpload;
+import net.sf.json.JSONObject;
+import org.springframework.web.multipart.MultipartFile;
+
+public class MakeImageInfo {
+    private static int image_max_size = 500;
+    private static int image_max_num = 16;
+    public static String make(ImageInfo imageInfo,String pathway_index){
+        String first_title = imageInfo.getFirst_title();
+        String image_prefix = imageInfo.getImage_prefix();
+        String below_description = imageInfo.getBelow_description();
+        String[] first_titles = first_title.split(",");
+        String[] image_prefixs = image_prefix.split(",");
+        String[] below_descriptions = below_description.split(",");
+        MultipartFile[] file = imageInfo.getFile();
+        int size = file.length;
+        JSONObject object = new JSONObject();
+        //如果size==0  则为默认值，未选择图片上传，拼默认格式
+        if (size==0){
+            JSONObject image  = new JSONObject();
+            image.put("image_name","");
+            image.put("image_prefix","@IMG@_");
+            image.put("first_title","");
+            image.put("below_description","");
+            object.put("image_0",image);
+        }else {
+            //遍历
+            int i = 0;
+            for (; i < size; i++) {
+                //完成图片上传
+                //ImageUpload.upload(file[i], pathway_index);
+                JSONObject image = new JSONObject();
+                image.put("image_name", file[i].getOriginalFilename());
+                image.put("image_prefix", image_prefixs[i]);
+                image.put("first_title", first_titles[i]);
+                image.put("below_description", below_descriptions[i]);
+                object.put("image_" + i, image);
+            }
+        }
+        object.put("image_max_size",image_max_size);
+        object.put("image_max_num",image_max_num);
+        return object.toString();
+    }
+}

diff --git a/Backendadmin/src/main/java/cn/knowimage/util/tableImageOutColumn.java b/Backendadmin/src/main/java/cn/knowimage/util/tableImageOutColumn.java
@@ -17,7 +17,7 @@ public class tableImageOutColumn {
        */
     public void myGraphicsGeneration(String cellsValue[][], String path,String title_info,String maxStr) {
         //  字体大小
-        int  fontTitileSize  =  15;
+        int  fontTitileSize  =  8;
         //  横线的行数
         int  totalrow  =  cellsValue.length;
         //  竖线的行数
@@ -50,7 +50,6 @@ public class tableImageOutColumn {
         Font  font  =  new  Font("微软雅黑",Font.PLAIN,fontTitileSize);
         graphics.setFont(font);
         ArrayList<String> arrayList ;
-
         //写标题
         String title  =  title_info;
         arrayList = stringCut(title,imageWidth-30);
@@ -63,7 +62,7 @@ public class tableImageOutColumn {
         //画横线
         for(int  j=0;j<totalrow;  j++){
             graphics.setColor(Color.black);
-            graphics.drawLine(startWidth+10,  startHeight+(j)*rowheight,  startWidth+colwidth*totalcol+10,  startHeight+(j)*rowheight);
+            graphics.drawLine(startWidth+10,  startHeight+(j+1)*rowheight,  startWidth+colwidth*totalcol+10,  startHeight+(j+1)*rowheight);
         }
         //画竖线
         for(int  k=0;k<totalcol+1;k++){
@@ -71,7 +70,6 @@ public class tableImageOutColumn {
             //此时纵向为标题，所以第一列的高度窄，此时第二根线则窄
             graphics.drawLine(startWidth+k*colwidth+10,  startHeight-20,  startWidth+k*colwidth+10,  startHeight+rowheight*(totalrow-1));
         }
-
         //写入内容
         for(int  n=0;n<cellsValue.length;n++){
             for(int  l=0;l<cellsValue[n].length;l++){

diff --git a/Backendadmin/src/main/java/cn/knowimage/service/impl/ImageInfoServiceImpl.java b/Backendadmin/src/main/java/cn/knowimage/service/impl/ImageInfoServiceImpl.java
@@ -1,0 +1,32 @@
+package cn.knowimage.service.impl;
+
+import cn.knowimage.JsonPojo.MakeJson.MakeImageInfo;
+import cn.knowimage.pojo.ImageInfo;
+import cn.knowimage.service.ImageInfoService;
+import org.springframework.stereotype.Service;
+import org.springframework.web.multipart.MultipartFile;
+
+@Service
+public class ImageInfoServiceImpl implements ImageInfoService {
+
+    @Override
+    public int makeImageInfo(ImageInfo imageInfo) {
+        //获得pathway_index 便于后期update那条字段
+//        String fileNumber = imageInfo.getFileNumber();
+//        if (imageInfo.getFileNumber().equals("")) {
+//            fileNumber = "0000" + fileNumber;
+//        } else if (fileNumber.length() == 1) {
+//            fileNumber = "000" + fileNumber;
+//        } else if (fileNumber.length() == 2) {
+//            fileNumber = "00" + fileNumber;
+//        } else if (fileNumber.length() == 3) {
+//            fileNumber = "0" + fileNumber;
+//        }
+//        String pathway_index = imageInfo.getPublisher() + imageInfo.getPublishYear() + fileNumber + imageInfo.getVersionNumber();
+        String pathway_index = "test";
+        //make数据库的imageInfo字段的Json的格式
+        String imageInfoJson = MakeImageInfo.make(imageInfo,pathway_index);
+        System.out.println(imageInfoJson);
+        return 0;
+    }
+}

diff --git a/Backendadmin/src/main/java/cn/knowimage/util/ImageUpload.java b/Backendadmin/src/main/java/cn/knowimage/util/ImageUpload.java
@@ -1,0 +1,34 @@
+package cn.knowimage.util;
+
+import org.springframework.web.multipart.MultipartFile;
+
+import java.io.File;
+import java.io.IOException;
+
+public class ImageUpload {
+    public static int upload(MultipartFile file,String pathway_index){
+        System.out.println("开始上传图片");
+        if (file.isEmpty()) {
+            System.out.println("文件为空");
+            return 0;
+        }
+        // 文件名
+        String fileName = file.getName();
+        // 上传后的路径
+        String filePath = "C:\\Users\\wh123\\Desktop\\HospitalProject\\ImageUpload\\"+pathway_index+"\\";
+        File dest = new File(filePath + fileName);
+        int result;
+        if (!dest.getParentFile().exists()) {
+            dest.getParentFile().mkdirs();
+        }
+        try {
+            file.transferTo(dest);
+            result = 1;
+            System.out.println(result);
+        } catch (IOException e) {
+            result = 0;
+            e.printStackTrace();
+        }
+        return result;
+    }
+}

diff --git a/Backendadmin/src/main/java/cn/knowimage/JsonPojo/MakeJson/MakeJsonPathway.java b/Backendadmin/src/main/java/cn/knowimage/JsonPojo/MakeJson/MakeJsonPathway.java
@@ -4,6 +4,7 @@ import cn.knowimage.JsonPojo.MakeJson.MakePathway_Info.*;
 import cn.knowimage.util.tableImageOut;
 import cn.knowimage.pojo.PathwayInfo;
 import cn.knowimage.pojo.ReceivePathway;
+import cn.knowimage.util.tableImageOutColumn;
 import cn.knowimage.util.tableImageOutRow;
 import net.sf.json.JSONObject;
 import org.springframework.stereotype.Component;
@@ -82,7 +83,7 @@ public class MakeJsonPathway {
                 }
             }
             String table_prefix = table_.getString("table_prefix");
-            //cg.myGraphicsGeneration(tableInfo,"C:\\Users\\wh123\\Desktop\\HospitalProject\\TableImages\\"+pathway_index+"_"+table_prefix+"ROW"+".png",title_info,str);
+            cg.myGraphicsGeneration(tableInfo,"C:\\Users\\wh123\\Desktop\\HospitalProject\\TableImages\\"+pathway_index+"_"+table_prefix+"ROW"+".png",title_info,str);
         }
         return pathwayInfo;
     }

diff --git a/Backendadmin/src/main/java/cn/knowimage/pojo/ImageInfo.java b/Backendadmin/src/main/java/cn/knowimage/pojo/ImageInfo.java
@@ -1,0 +1,17 @@
+package cn.knowimage.pojo;
+
+import lombok.Data;
+import org.springframework.web.multipart.MultipartFile;
+
+@Data
+public class ImageInfo {
+    private String first_title;
+    private String image_prefix;
+    private String below_description;
+    private MultipartFile file[];
+    private String publisher;
+    private String publishYear;
+    private String fileNumber;
+    private String versionNumber;
+
+}

diff --git a/Backendadmin/src/main/java/cn/knowimage/service/ImageInfoService.java b/Backendadmin/src/main/java/cn/knowimage/service/ImageInfoService.java
@@ -1,0 +1,7 @@
+package cn.knowimage.service;
+
+import cn.knowimage.pojo.ImageInfo;
+
+public interface ImageInfoService {
+   int makeImageInfo(ImageInfo imageInfo);
+}
